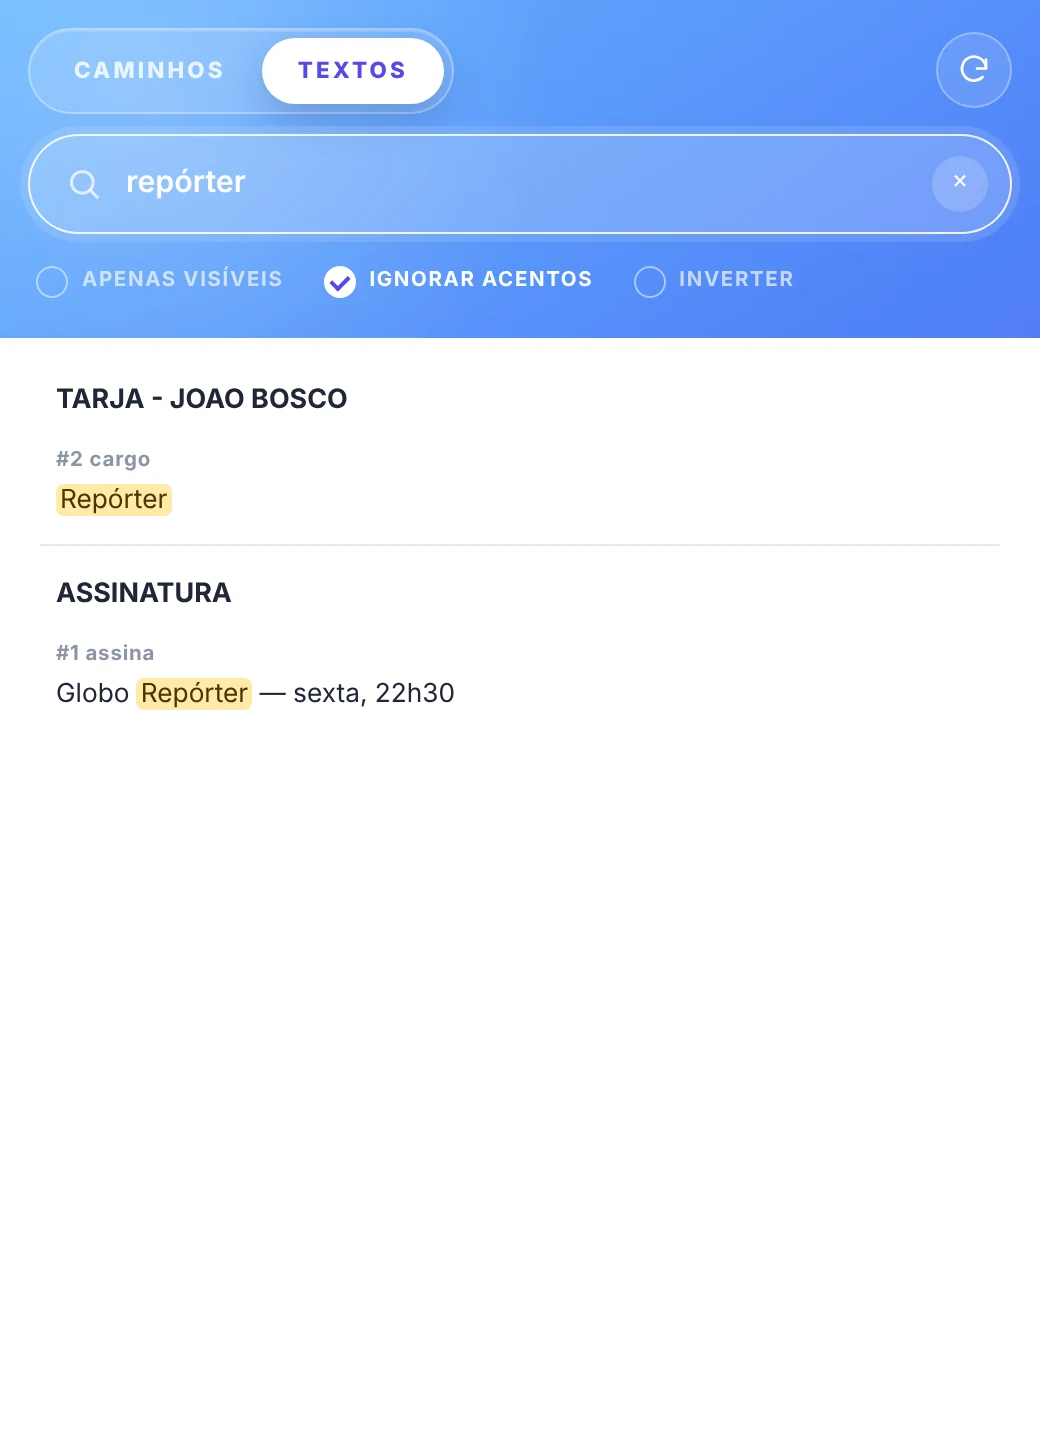
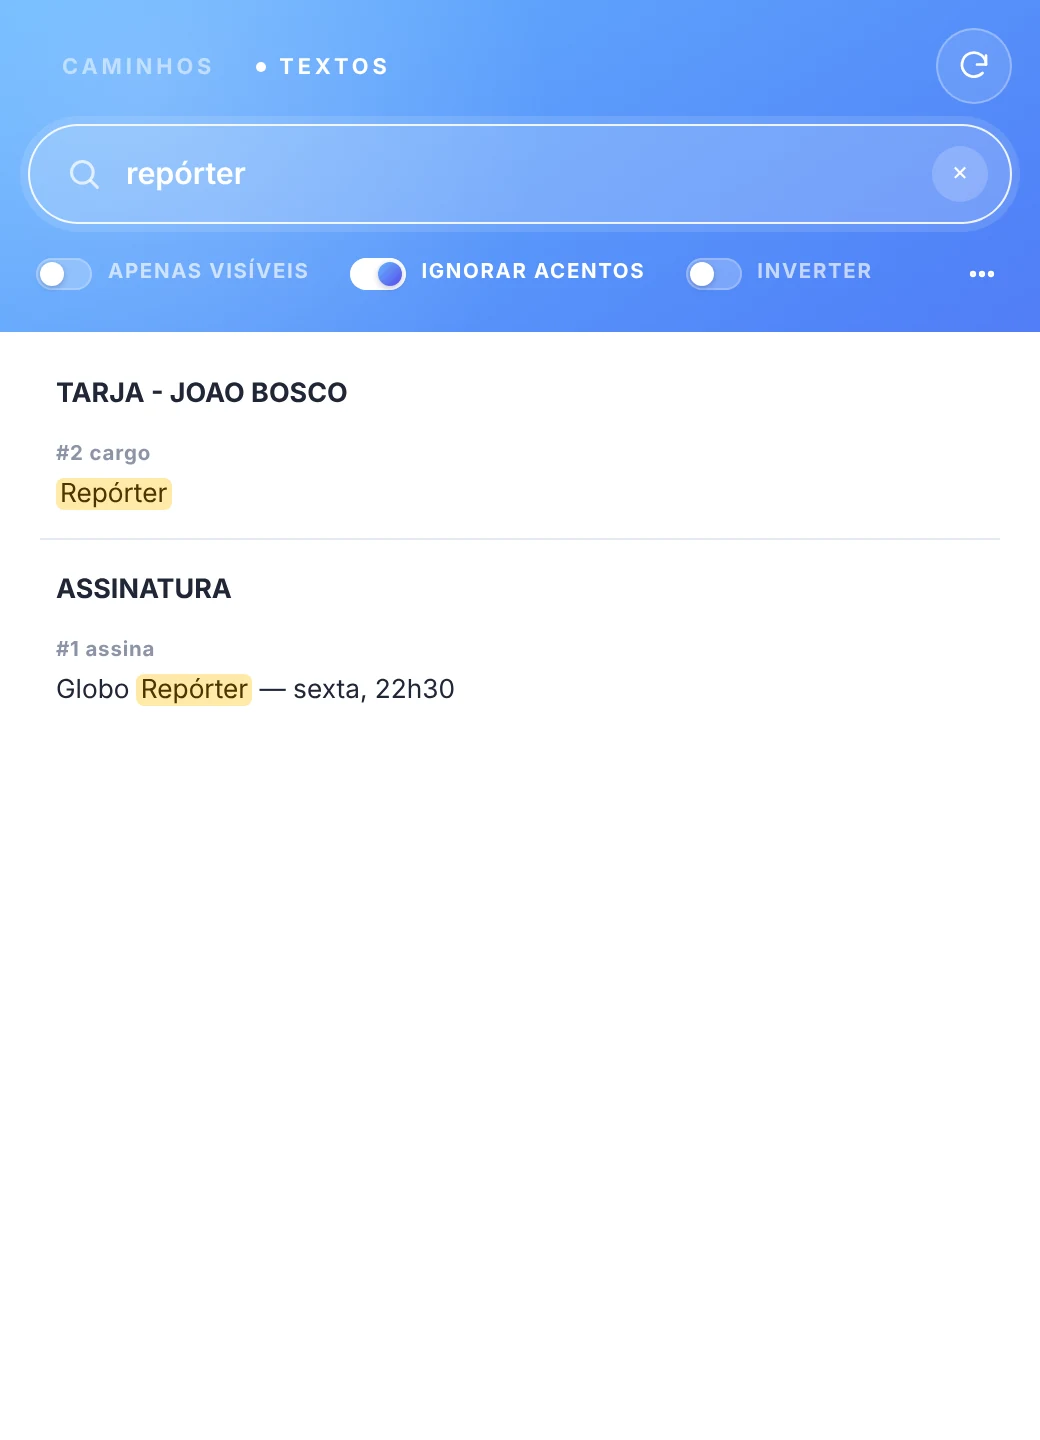
O ACESSORISTA: abas só em texto, filtros como interruptores e menu ⋯
- abas CAMINHOS / TEXTOS como o 'buscar · selecionar · preencher': texto esmaecido, a ativa opaca com um ponto
- categorias e opções da busca de textos viram interruptores (versão invertida do toggle dos formulários)
- menu '⋯' no fim da linha de filtros: ajuda e recarregar painel
- capturas e README atualizados

Claude-Session: https://claude.ai/code/session_01DrYHfUyMEmqYvcFyKefNe2

Changed region(s): [[0.0, 0.0, 1.0, 0.2812], [0.0615, 0.4062, 0.4308, 0.5], [0.0615, 0.3125, 0.1538, 0.375]]

diff --git a/extension/client/css/finder.css b/extension/client/css/finder.css
@@ -30,57 +30,60 @@ body.finder-page {
   gap: 10px;
 }
 
-/* abas */
+/* abas: só texto, como o "buscar · selecionar · preencher" dos templates; a aba ativa fica opaca, com um ponto */
 .tabs {
-  position: relative;
   display: inline-flex;
-  padding: 4px;
-  border: 1px solid rgb(255 255 255 / 32%);
-  border-radius: var(--radius-pill);
-  background: rgb(255 255 255 / 14%);
-  box-shadow: inset 0 1px 0 rgb(255 255 255 / 16%);
+  align-items: center;
+  gap: 20px;
+  padding-left: 5px;
 }
 
 .tab {
   position: relative;
-  z-index: 1;
-  padding: 8px 18px;
+  display: inline-flex;
+  align-items: center;
+  gap: 7px;
+  padding: 6px 0;
   border: 0;
-  border-radius: var(--radius-pill);
   background: transparent;
-  color: rgb(255 255 255 / 82%);
+  color: rgb(255 255 255 / 52%);
   cursor: pointer;
-  font-size: 0.7rem;
-  font-weight: 760;
-  letter-spacing: 0.14em;
-  transition: color 240ms ease;
+  font-size: 0.68rem;
+  font-weight: 750;
+  letter-spacing: 0.18em;
+  transition: color 220ms ease;
+}
+
+.tab::before {
+  width: 5px;
+  height: 5px;
+  border-radius: 50%;
+  background: currentcolor;
+  content: "";
+  opacity: 0;
+  transform: scale(0);
+  transition:
+    opacity 200ms ease,
+    transform 260ms var(--ease-soft);
 }
 
 .tab:hover {
-  color: white;
+  color: rgb(255 255 255 / 80%);
 }
 
 .tab[aria-selected="true"] {
-  color: var(--blue-600);
+  color: white;
+}
+
+.tab[aria-selected="true"]::before {
+  opacity: 1;
+  transform: scale(1);
 }
 
 .tab:focus-visible {
+  border-radius: 6px;
   outline: 2px solid rgb(255 255 255 / 80%);
   outline-offset: 2px;
-}
-
-.tab-pill {
-  position: absolute;
-  top: 4px;
-  bottom: 4px;
-  left: 0;
-  width: 0;
-  border-radius: var(--radius-pill);
-  background: white;
-  box-shadow: 0 8px 20px rgb(24 43 113 / 22%);
-  transition:
-    transform 320ms var(--ease-soft),
-    width 320ms var(--ease-soft);
 }
 
 /* painéis */
@@ -106,23 +109,37 @@ body.finder-page {
   font-size: 0.95rem;
 }
 
-/* opções / filtros (chips) */
-.finder-options {
+/* opções / filtros: interruptores (versão invertida do toggle dos formulários) e o menu "⋯" no fim */
+.finder-options-row {
   display: flex;
-  flex-wrap: wrap;
+  align-items: center;
   gap: 6px;
 }
 
-.finder-options:empty {
-  display: none;
+.finder-options {
+  display: flex;
+  min-width: 0;
+  flex: 1;
+  flex-wrap: wrap;
+  gap: 4px 12px;
+}
+
+.finder-menu {
+  flex: 0 0 auto;
+  align-self: flex-start;
+}
+
+.finder-menu>summary.icon-button {
+  width: 30px;
+  height: 30px;
 }
 
 .chip {
   display: inline-flex;
   min-height: 28px;
   align-items: center;
-  gap: 7px;
-  padding: 3px 10px 3px 4px;
+  gap: 8px;
+  padding: 3px 4px;
   border: 0;
   border-radius: var(--radius-pill);
   background: transparent;
@@ -131,13 +148,10 @@ body.finder-page {
   font-size: 0.64rem;
   font-weight: 750;
   letter-spacing: 0.08em;
-  transition:
-    background-color 200ms ease,
-    color 200ms ease;
+  transition: color 200ms ease;
 }
 
 .chip:hover {
-  background: rgb(255 255 255 / 12%);
   color: white;
 }
 
@@ -146,32 +160,31 @@ body.finder-page {
   outline-offset: 1px;
 }
 
-/* a bolinha: vazada quando desligado, cheia com o check quando ligado */
+/* trilho: translúcido quando desligado, branco quando ligado; a bolinha fica azul ao ligar */
 .chip-check {
   position: relative;
-  width: 16px;
+  width: 28px;
   height: 16px;
-  border: 1.5px solid rgb(255 255 255 / 50%);
-  border-radius: 50%;
-  transition:
-    background-color 200ms ease,
-    border-color 200ms ease;
+  flex: 0 0 auto;
+  border-radius: var(--radius-pill);
+  background: rgb(255 255 255 / 24%);
+  box-shadow: inset 0 0 0 1px rgb(255 255 255 / 22%);
+  transition: background-color 220ms ease;
 }
 
 .chip-check::after {
   position: absolute;
   top: 2px;
-  left: 4.5px;
-  width: 4px;
-  height: 7px;
-  border-right: 2px solid var(--blue-600);
-  border-bottom: 2px solid var(--blue-600);
+  left: 2px;
+  width: 12px;
+  height: 12px;
+  border-radius: 50%;
+  background: white;
+  box-shadow: 0 1px 3px rgb(24 43 113 / 28%);
   content: "";
-  opacity: 0;
-  transform: rotate(45deg) scale(0.6);
   transition:
-    opacity 180ms ease,
-    transform 240ms var(--ease-soft);
+    transform 260ms var(--ease-soft),
+    background-color 220ms ease;
 }
 
 .chip.is-on {
@@ -179,13 +192,12 @@ body.finder-page {
 }
 
 .chip.is-on .chip-check {
-  border-color: white;
   background: white;
 }
 
 .chip.is-on .chip-check::after {
-  opacity: 1;
-  transform: rotate(45deg) scale(1);
+  background: linear-gradient(135deg, var(--blue-400), var(--blue-600));
+  transform: translateX(12px);
 }
 
 /* folha branca com os resultados (sem cartões dentro de cartões) */

diff --git a/extension/client/finder.html b/extension/client/finder.html
@@ -22,7 +22,6 @@
 	<main class="finder" id="finder">
 		<header class="finder-top">
 			<div class="tabs" id="tabs" role="tablist">
-				<span class="tab-pill" id="tab-pill"></span>
 				<button type="button" class="tab" role="tab" id="tab-paths" data-tab="paths" aria-selected="true">CAMINHOS</button>
 				<button type="button" class="tab" role="tab" id="tab-texts" data-tab="texts" aria-selected="false">TEXTOS</button>
 			</div>
@@ -39,7 +38,16 @@
 				<input type="search" id="q-paths" placeholder="buscar atração, projeto, output ou caminho" autocomplete="off" spellcheck="false" aria-label="Buscar caminhos">
 				<button type="button" class="picker-clear" id="clear-paths" aria-label="Limpar busca" hidden>×</button>
 			</div>
-			<div class="finder-options" id="opts-paths" aria-label="Categorias"></div>
+			<div class="finder-options-row">
+				<div class="finder-options" id="opts-paths" aria-label="Categorias"></div>
+				<details class="actions-menu finder-menu">
+					<summary class="icon-button" title="Mais opções" aria-label="Mais opções"><svg viewBox="0 0 24 24" class="anim-dots"><circle cx="6" cy="12" r="1.2" /><circle cx="12" cy="12" r="1.2" /><circle cx="18" cy="12" r="1.2" /></svg></summary>
+					<div class="menu-popover">
+						<button type="button" data-action="docs">Ajuda / documentação</button>
+						<button type="button" data-action="reload">Recarregar painel</button>
+					</div>
+				</details>
+			</div>
 			<div class="finder-sheet">
 				<div class="finder-results" id="results-paths">
 				<div class="oven-loader is-light" role="status">
@@ -58,10 +66,19 @@
 				<input type="search" id="q-texts" placeholder="buscar nos textos do projeto" autocomplete="off" spellcheck="false" aria-label="Buscar textos">
 				<button type="button" class="picker-clear" id="clear-texts" aria-label="Limpar busca" hidden>×</button>
 			</div>
-			<div class="finder-options" id="opts-texts" aria-label="Opções">
-				<button type="button" class="chip" id="chip-vis" aria-pressed="false" title="buscar apenas em layers visíveis (ligados)"><span class="chip-check"></span>APENAS VISÍVEIS</button>
-				<button type="button" class="chip is-on" id="chip-accent" aria-pressed="true" title='"amazonia" também encontra "Amazônia"'><span class="chip-check"></span>IGNORAR ACENTOS</button>
-				<button type="button" class="chip" id="chip-invert" aria-pressed="false" title="apenas textos que NÃO possuem o termo buscado"><span class="chip-check"></span>INVERTER</button>
+			<div class="finder-options-row">
+				<div class="finder-options" id="opts-texts" aria-label="Opções">
+					<button type="button" class="chip" id="chip-vis" aria-pressed="false" title="buscar apenas em layers visíveis (ligados)"><span class="chip-check"></span>APENAS VISÍVEIS</button>
+					<button type="button" class="chip is-on" id="chip-accent" aria-pressed="true" title='"amazonia" também encontra "Amazônia"'><span class="chip-check"></span>IGNORAR ACENTOS</button>
+					<button type="button" class="chip" id="chip-invert" aria-pressed="false" title="apenas textos que NÃO possuem o termo buscado"><span class="chip-check"></span>INVERTER</button>
+				</div>
+				<details class="actions-menu finder-menu">
+					<summary class="icon-button" title="Mais opções" aria-label="Mais opções"><svg viewBox="0 0 24 24" class="anim-dots"><circle cx="6" cy="12" r="1.2" /><circle cx="12" cy="12" r="1.2" /><circle cx="18" cy="12" r="1.2" /></svg></summary>
+					<div class="menu-popover">
+						<button type="button" data-action="docs">Ajuda / documentação</button>
+						<button type="button" data-action="reload">Recarregar painel</button>
+					</div>
+				</details>
 			</div>
 			<div class="finder-sheet">
 				<div class="finder-results" id="results-texts"></div>

diff --git a/extension/client/js/finder.js b/extension/client/js/finder.js
@@ -15,6 +15,8 @@ caracteres e abertura das pastas. Aba TEXTOS: lê os textos dos layers de texto 
 
 	var call = PAD_BRIDGE.call;
 
+	var DOCS_URL = 'https://github.com/jmbillard/O-PADEIRO/blob/main/README.md#-o-acessorista';
+
 	var MIN_QUERY = 2; // mínimo de caracteres na busca de caminhos
 	var MAX_RESULTS = 12; // máximo de atrações exibidas
 	var MAX_PATH_CHARS = 90;
@@ -201,14 +203,6 @@ caracteres e abertura das pastas. Aba TEXTOS: lê os textos dos layers de texto 
 	   Abas
 	   ========================================================= */
 
-	function movePill() {
-		var tab = $('tab-' + state.tab);
-		var pill = $('tab-pill');
-
-		pill.style.width = tab.offsetWidth + 'px';
-		pill.style.transform = 'translateX(' + tab.offsetLeft + 'px)';
-	}
-
 	function switchTab(tab) {
 		if (tab !== 'paths' && tab !== 'texts') tab = 'paths';
 
@@ -221,8 +215,6 @@ caracteres e abertura das pastas. Aba TEXTOS: lê os textos dos layers de texto 
 			$('tab-' + name).setAttribute('aria-selected', String(on));
 			$('pane-' + name).hidden = !on;
 		});
-
-		movePill();
 
 		var q = $('q-' + tab);
 
@@ -746,7 +738,23 @@ caracteres e abertura das pastas. Aba TEXTOS: lê os textos dos layers de texto 
 			}
 		});
 
-		window.addEventListener('resize', movePill);
+		// menu "⋯" (um por aba)
+		Array.prototype.forEach.call(document.querySelectorAll('.finder-menu'), function (menu) {
+			menu.addEventListener('click', function (e) {
+				var btn = e.target.closest('button[data-action]');
+
+				if (!btn) return;
+
+				menu.removeAttribute('open');
+
+				if (btn.dataset.action === 'docs') PAD_BRIDGE.openUrl(DOCS_URL);
+				if (btn.dataset.action === 'reload') location.reload();
+			});
+
+			document.addEventListener('click', function (e) {
+				if (!menu.contains(e.target)) menu.removeAttribute('open');
+			});
+		});
 		window.addEventListener('focus', watchRequestedTab);
 	}
 

diff --git a/README.md b/README.md
@@ -363,7 +363,8 @@ as buscas do padeiro, em um painel com duas abas.
 
 `◖ clique esquerdo` em **buscar**, na barra. pesquise por atração, projeto, output ou caminho (a partir de 2 caracteres) e abra as pastas direto no Finder / Explorer.
 
-- **categorias** → TEAMS, TRELLO, SERVIDOR... cada uma pode ser ligada ou desligada.
+- **categorias** → TEAMS, TRELLO, SERVIDOR... cada uma tem um interruptor para entrar ou sair da busca.
+- **⋯** → ajuda e recarregar o painel.
 - **abrir projeto / abrir output** → abrem as pastas de projeto e de output da atração.
 - **abrir: PASTA** → abre a pasta do caminho que contém o termo buscado.
 - **caminho** → clique para abrir a pasta.
